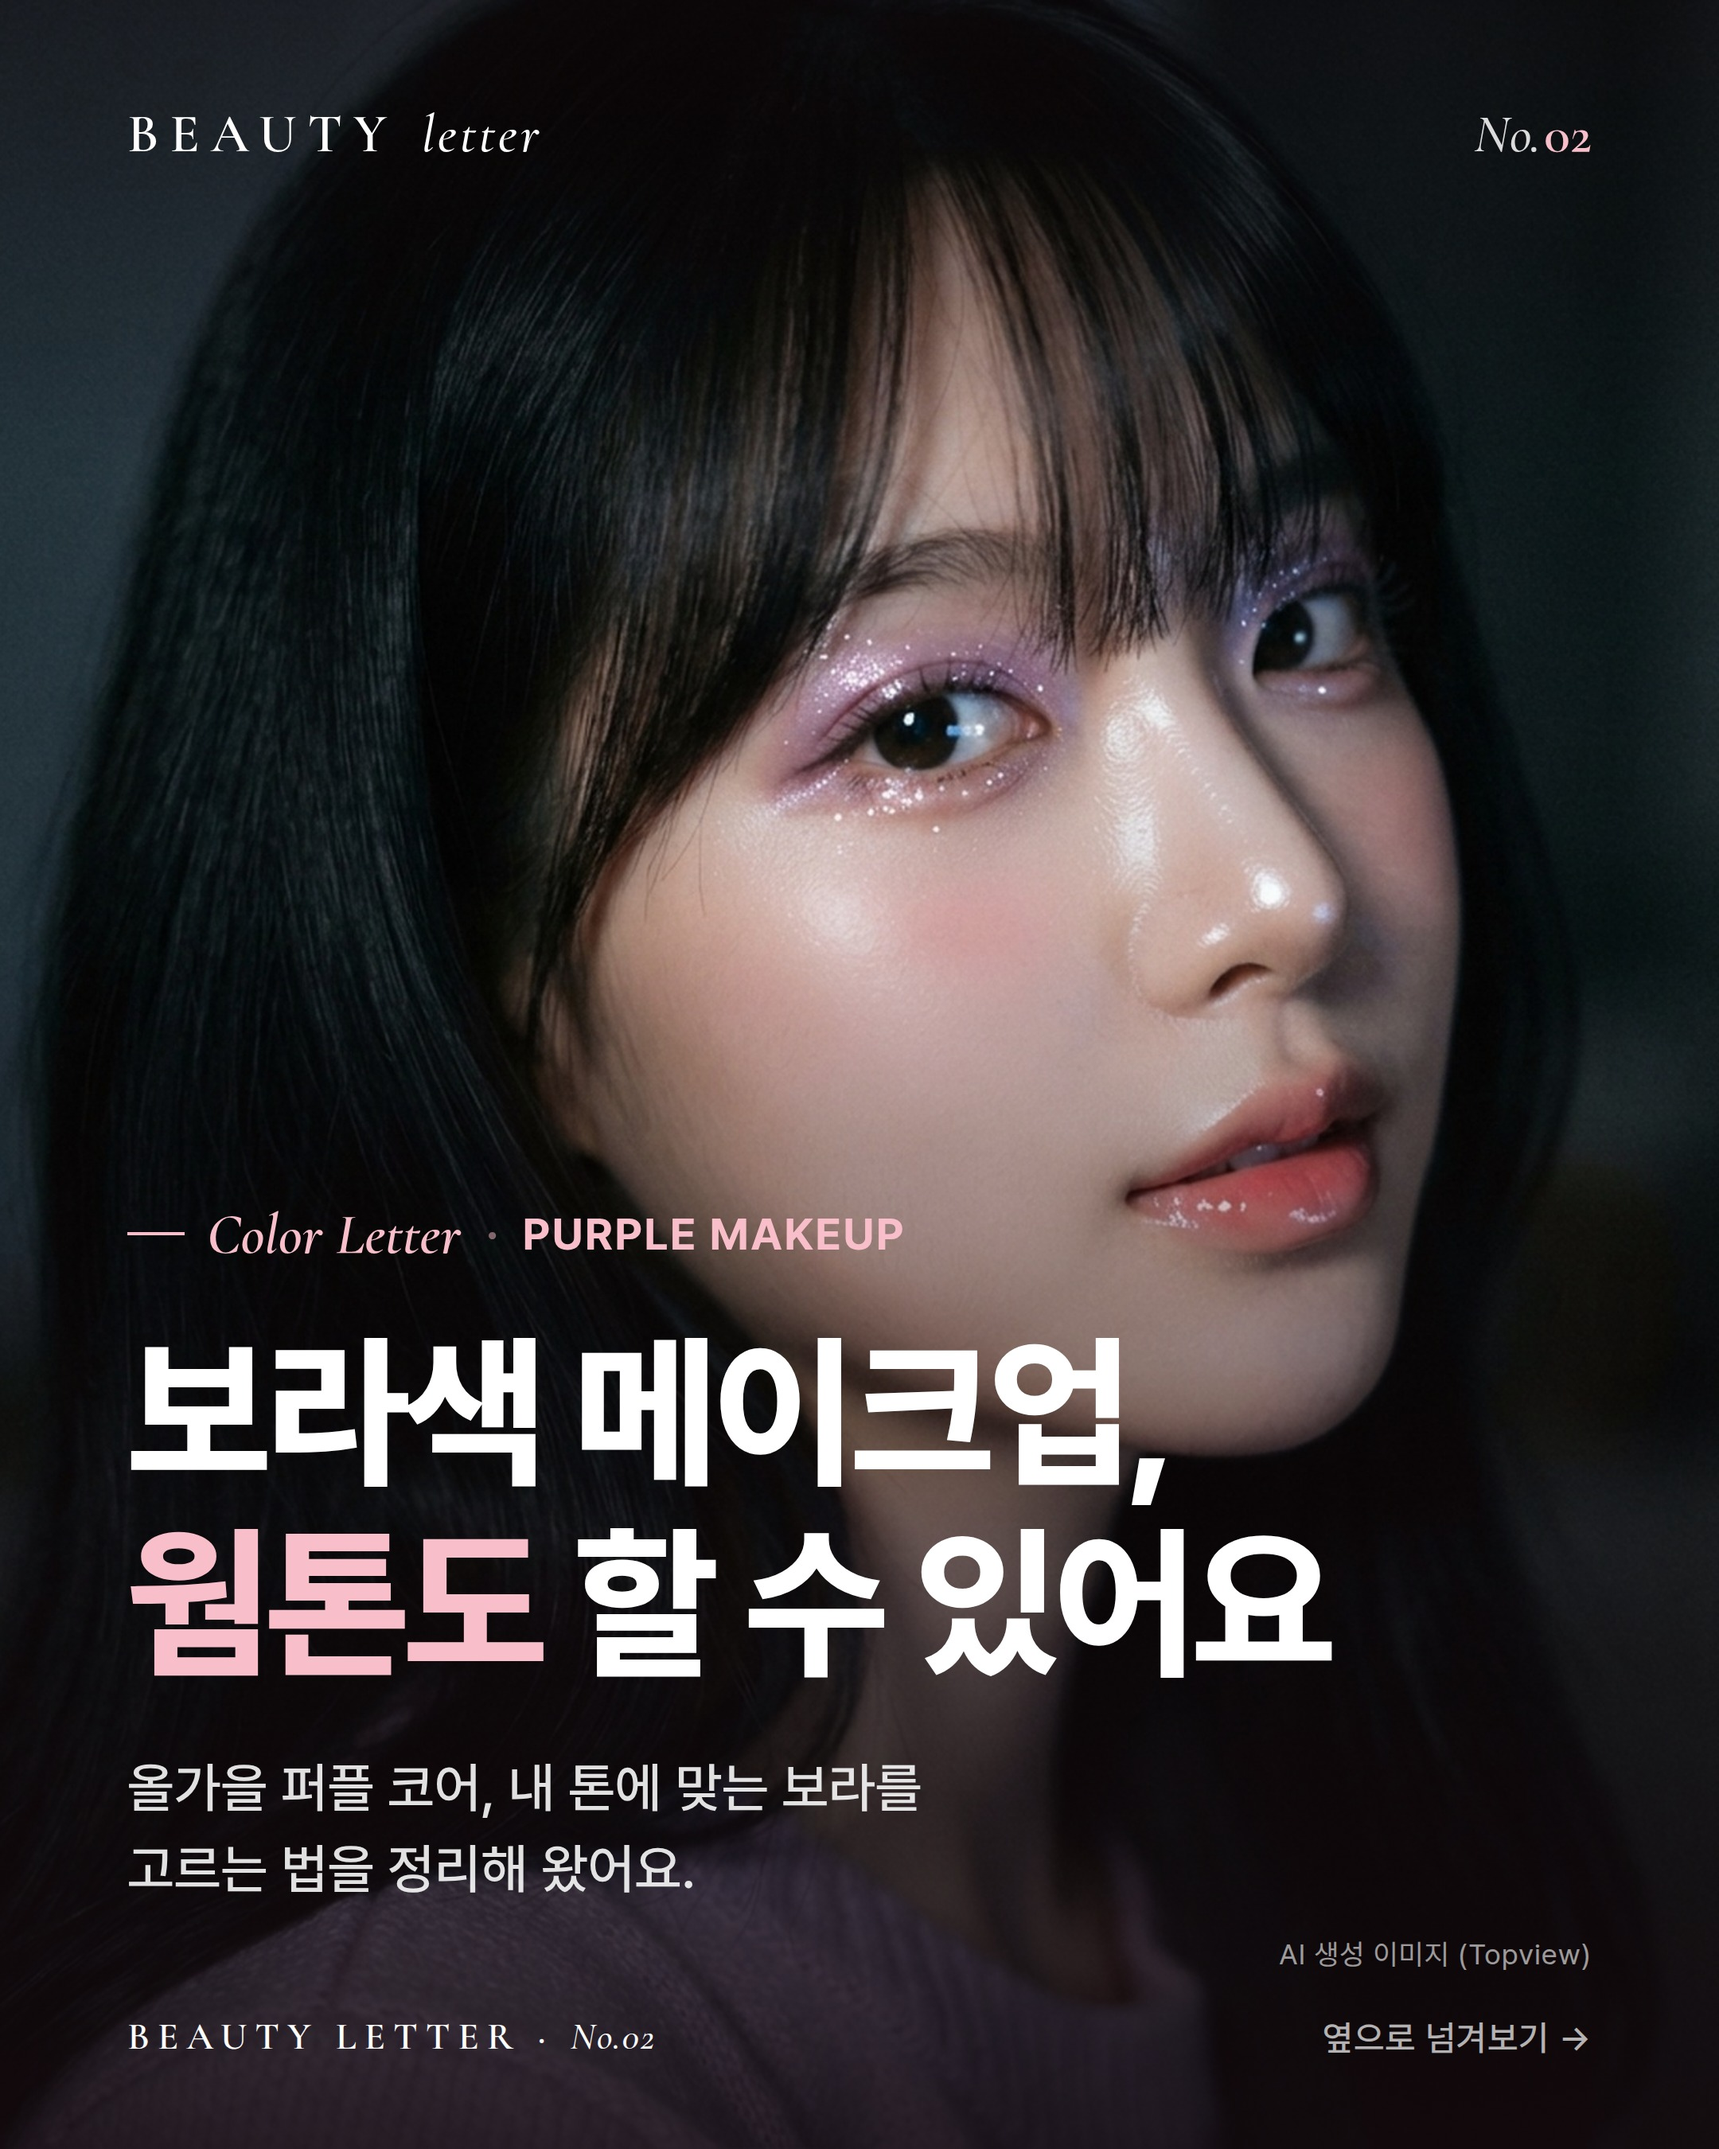
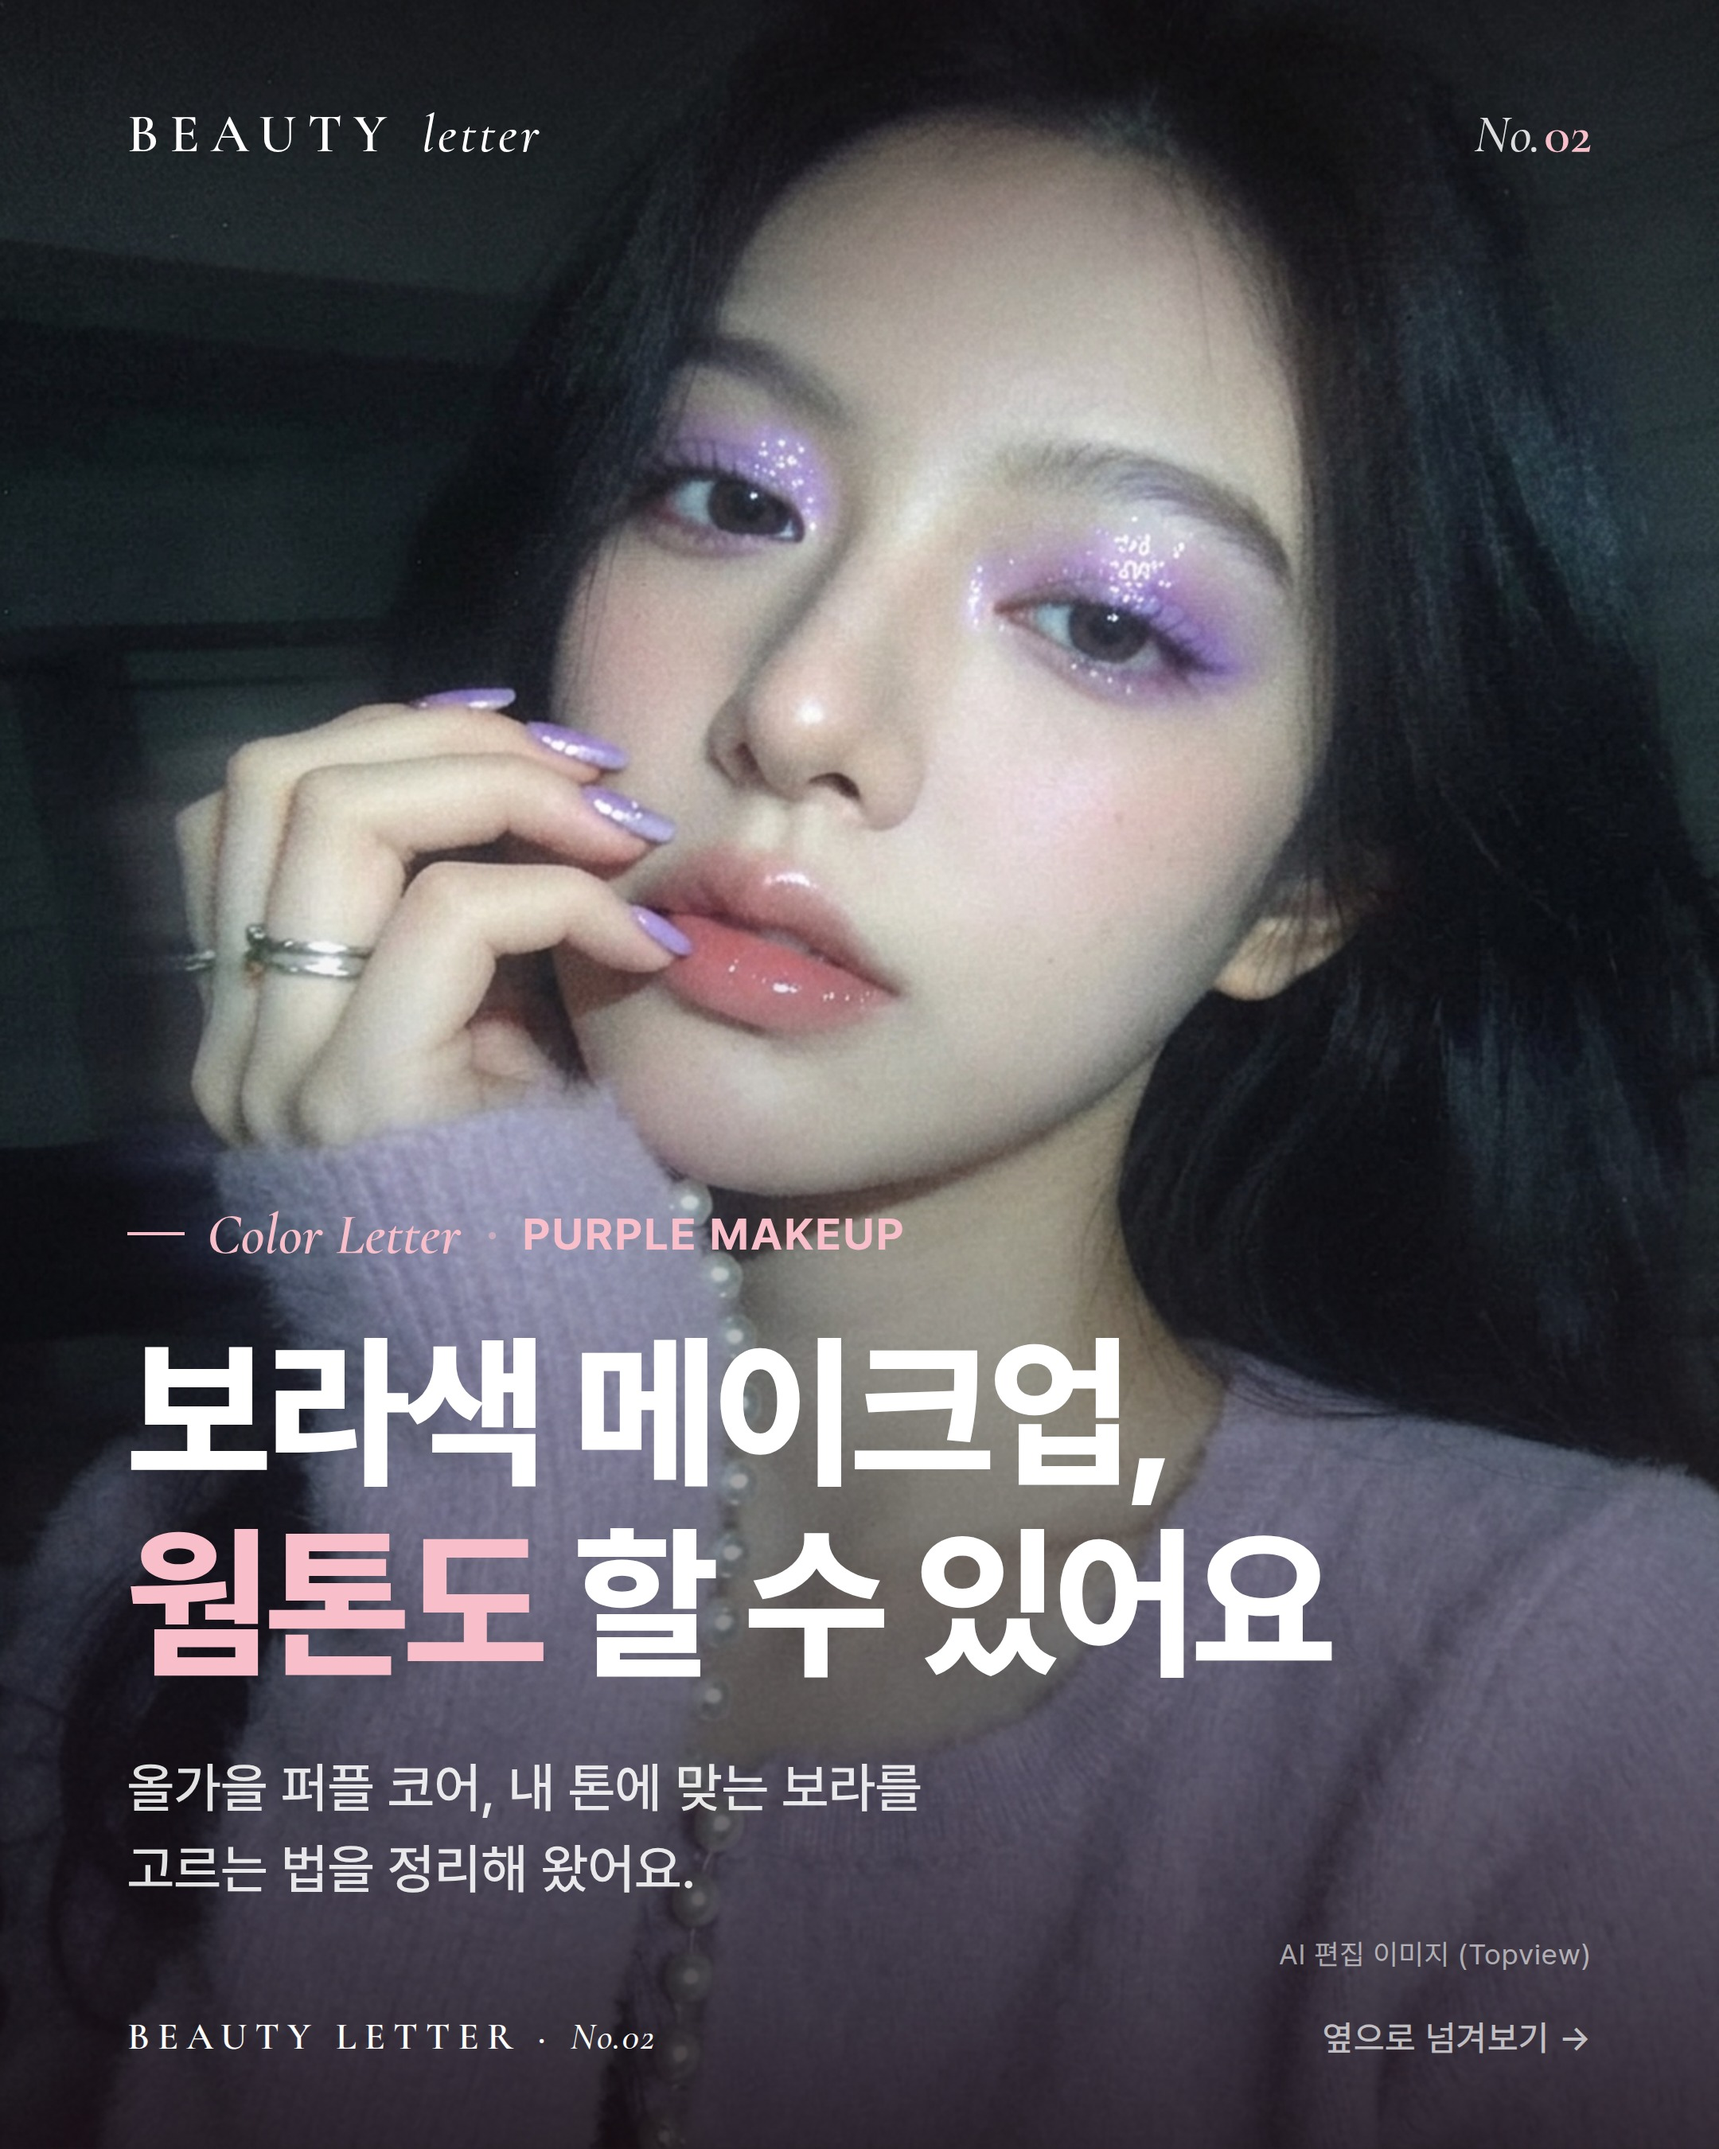
뷰티레터: No.02 표지를 레퍼런스 각도 기반 AI 편집 이미지로 교체
Claude-Session: https://claude.ai/code/session_01M29FXMb16fvzM5BCrcufte

diff --git a/design/beauty_news/letters/2026-10-02_pm_purple/slides.html b/design/beauty_news/letters/2026-10-02_pm_purple/slides.html
@@ -11,9 +11,9 @@
 .new-badge { position: absolute; left: var(--pad); top: 190px; z-index: 2; font-family: var(--serif); font-style: italic; font-size: 44px; font-weight: 600; color: var(--rose); border: 2px solid var(--rose); border-radius: 999px; padding: 6px 30px 10px; }
 </style>
 </head><body><div class="sheet">
-<section class="card cover-photo" data-name="01_cover"><div data-slot="photo"><img src="img/cover_ai.jpg" alt="" style="object-position:center 20%" /></div><div class="shade"></div><div class="topbar"><div class="wordmark">BEAUTY <i>letter</i></div><div class="issue-mark">No.<b>02</b></div></div>
+<section class="card cover-photo" data-name="01_cover"><div data-slot="photo"><img src="img/cover_ai.jpg" alt="" style="object-position:center 15%" /></div><div class="shade"></div><div class="topbar"><div class="wordmark">BEAUTY <i>letter</i></div><div class="issue-mark">No.<b>02</b></div></div>
   <div class="body"><div class="kicker"><span class="cat">Color Letter</span><span class="sep">·</span><span>PURPLE MAKEUP</span></div><h1>보라색 메이크업,<br/><span class="em">웜톤도</span> 할 수 있어요</h1><p class="sub">올가을 퍼플 코어, 내 톤에 맞는 보라를<br/>고르는 법을 정리해 왔어요.</p></div>
-  <div class="photo-credit">AI 생성 이미지 (Topview)</div><div class="footbar"><span class="letter-no">BEAUTY LETTER · <i>No.02</i></span><span>옆으로 넘겨보기 →</span></div></section>
+  <div class="photo-credit">AI 편집 이미지 (Topview)</div><div class="footbar"><span class="letter-no">BEAUTY LETTER · <i>No.02</i></span><span>옆으로 넘겨보기 →</span></div></section>
 <section class="card points" data-name="02_trend"><div class="topbar"><div class="wordmark" style="font-size:26px;letter-spacing:5px">BEAUTY <i>letter</i></div><div class="pageno"><b>02</b> / 06</div></div><div class="kicker">WHY PURPLE</div><h2>패션을 넘어<br/>메이크업까지 온 <span class="hl">퍼플</span></h2>
   <div class="items"><div class="item"><div class="n">01</div><div><h3>라일락 섀도 + 화이트 펄</h3><p>채원은 라일락을 눈두덩과 눈 밑에 얇게 펴고 <b>화이트 펄</b>을 얹었어요. 라인은 최소한으로.</p></div></div><div class="item"><div class="n">02</div><div><h3>짙은 포도색 + 블랙 라인</h3><p>비토리아 세레티는 진한 보라를 아이홀에 넓게, 대신 <b>치크·립은 누드톤</b>으로 눌렀어요.</p></div></div><div class="item"><div class="n">03</div><div><h3>퍼플 하이라이터 한 끗</h3><p>예지는 치크 위에 <b>퍼플 하이라이터</b>를 살짝. 가장 쉽게 시작하는 방법이에요.</p></div></div></div>
   <div class="foot">* 셀럽 메이크업 사례: 얼루어 코리아 (2026.09.30)</div></section>

diff --git a/design/beauty_news/letters/2026-10-02_pm_purple/sources.md b/design/beauty_news/letters/2026-10-02_pm_purple/sources.md
@@ -5,3 +5,4 @@
 - (이전 인물 표지 cover_photo.jpg는 사용 안 함)
 - img/cover_bg.jpg — Pexels 무료 사진 "Dreamy Pastel Sunset Sky" https://www.pexels.com/photo/dreamy-pastel-sunset-sky-14060322/ (표지 배경)
 - img/cover_ai.jpg — Topview AI 생성 이미지(Nano Banana 2 Lite, 2026-10-01). 실존 인물 아님. 사용자가 고른 핀터레스트 사진 분위기를 글로만 설명해 새로 만듦(원본 사진은 입력하지 않음). 비용 0.3크레딧/장
+- (2026-10-01 교체) img/cover_ai.jpg — 사용자가 고른 핀터레스트 사진(https://kr.pinterest.com/pin/50524827070639436/, 원출처 샤오홍슈 rednote ID 184392154)을 Topview image_edit(Nano Banana 2 Lite)로 얼굴·옷 디자인을 바꿔 만든 이미지. 각도·구도·메이크업은 원본 기반. 원작자 요청 시 즉시 내림.
